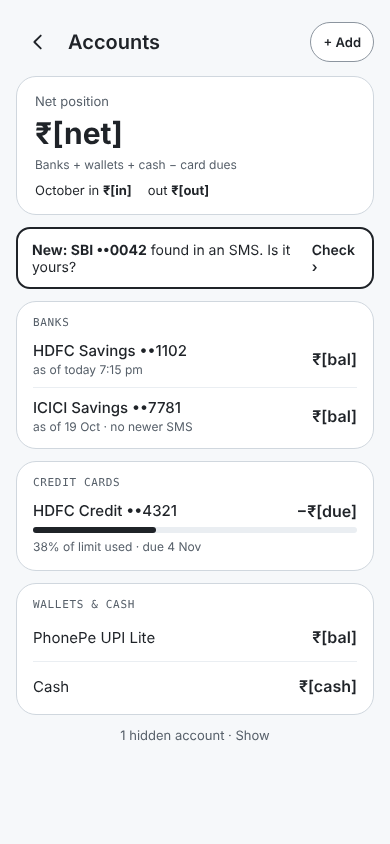
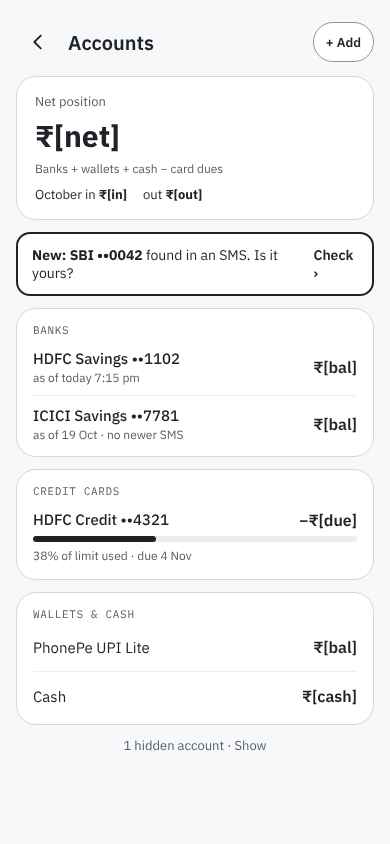
Close navigation gaps in wireframes
- Make dead list rows tappable: payments, people, bills, year months, accounts
- Add Back to every onboarding step; Settings opens lock & reminder setup instead of the unlock screen
- Money: give ignored SMS its own chip; Money-SMS gets an All chip back
- Link + Person, payment category and backlog Answer buttons
- Document context-dependent back/save rules; regenerate Goes to column from the HTML

Claude-Session: https://claude.ai/code/session_01U2qtjUrRfDaXvxT2nZTugL

diff --git a/expense-tracker/wireframes/v2/V2-Money.html b/expense-tracker/wireframes/v2/V2-Money.html
@@ -34,15 +34,16 @@ a{color:#0B57D0}a:hover{color:#08408F}
     <div style="display: flex; gap: 8px; overflow: hidden" aria-label="Accounts">
       <button type="button" aria-pressed="true" style="min-height: 48px; padding: 0 14px; border-radius: 12px; border: 2px solid #1F2328; background: #FFFFFF; font: inherit; font-size: 13px; font-weight: 600; color: #1F2328; flex-shrink: 0; display: flex; flex-direction: column; align-items: flex-start; justify-content: center"><span>You have</span><span style="font-size: 12px; font-weight: 400; color: #57606A">₹[have] · all</span></button>
       <a href="V2-Account.html" style="min-height: 48px; padding: 4px 12px; border-radius: 12px; border: 1px solid #8C959F; box-sizing: border-box; display: flex; flex-direction: column; justify-content: center; color: #1F2328; text-decoration: none; flex-shrink: 0"><span style="font-size: 13px; font-weight: 600">HDFC ••1102</span><span style="font-size: 12px; color: #57606A">₹[bal]</span></a>
-      <div style="min-height: 48px; padding: 4px 12px; border-radius: 12px; border: 1px solid #8C959F; box-sizing: border-box; display: flex; flex-direction: column; justify-content: center; flex-shrink: 0"><span style="font-size: 13px; font-weight: 600">HDFC Card ••4321</span><span style="font-size: 12px; color: #57606A">due ₹[x]</span></div>
-      <div style="min-height: 48px; padding: 4px 12px; border-radius: 12px; border: 1px solid #8C959F; box-sizing: border-box; display: flex; flex-direction: column; justify-content: center; flex-shrink: 0"><span style="font-size: 13px; font-weight: 600">Cash</span><span style="font-size: 12px; color: #57606A">₹[x]</span></div>
+      <a href="V2-Account.html" style="min-height: 48px; padding: 4px 12px; border-radius: 12px; border: 1px solid #8C959F; box-sizing: border-box; display: flex; flex-direction: column; justify-content: center; flex-shrink: 0; color: #1F2328; text-decoration: none"><span style="font-size: 13px; font-weight: 600">HDFC Card ••4321</span><span style="font-size: 12px; color: #57606A">due ₹[x]</span></a>
+      <a href="V2-Cash-Check.html" style="min-height: 48px; padding: 4px 12px; border-radius: 12px; border: 1px solid #8C959F; box-sizing: border-box; display: flex; flex-direction: column; justify-content: center; flex-shrink: 0; color: #1F2328; text-decoration: none"><span style="font-size: 13px; font-weight: 600">Cash</span><span style="font-size: 12px; color: #57606A">₹[x]</span></a>
     </div>
     <div role="tablist" aria-label="Payment type" style="display: flex; gap: 8px; overflow: hidden">
       <button type="button" role="tab" aria-selected="true" style="min-height: 48px; padding: 0 16px; border-radius: 24px; border: none; background: #1F2328; color: #FFFFFF; font: inherit; font-size: 14px; font-weight: 600; flex-shrink: 0">All</button>
       <button type="button" role="tab" aria-selected="false" style="min-height: 48px; padding: 0 16px; border-radius: 24px; border: 1px solid #8C959F; background: #FFFFFF; font: inherit; font-size: 14px; color: #1F2328; flex-shrink: 0">Spent</button>
       <a href="V2-Money-In.html" role="tab" aria-selected="false" style="min-height: 48px; padding: 0 16px; border-radius: 24px; border: 1px solid #8C959F; box-sizing: border-box; font-size: 14px; color: #1F2328; display: flex; align-items: center; text-decoration: none; flex-shrink: 0">Received</a>
       <button type="button" role="tab" aria-selected="false" style="min-height: 48px; padding: 0 16px; border-radius: 24px; border: 1px solid #8C959F; background: #FFFFFF; font: inherit; font-size: 14px; color: #1F2328; flex-shrink: 0">Refunds</button>
-      <a href="V2-Money-SMS.html" role="tab" aria-selected="false" style="min-height: 48px; padding: 0 16px; border-radius: 24px; border: 1px solid #8C959F; box-sizing: border-box; font-size: 14px; color: #1F2328; display: flex; align-items: center; text-decoration: none; flex-shrink: 0">Between my accounts</a>
+      <button type="button" role="tab" aria-selected="false" style="min-height: 48px; padding: 0 16px; border-radius: 24px; border: 1px solid #8C959F; background: #FFFFFF; font: inherit; font-size: 14px; color: #1F2328; flex-shrink: 0">Between my accounts</button>
+      <a href="V2-Money-SMS.html" role="tab" aria-selected="false" style="min-height: 48px; padding: 0 16px; border-radius: 24px; border: 1px solid #8C959F; box-sizing: border-box; font-size: 14px; color: #1F2328; display: flex; align-items: center; text-decoration: none; flex-shrink: 0">SMS not used</a>
     </div>
     <div style="display: flex; gap: 8px; align-items: center">
       <div role="radiogroup" aria-label="Amounts shown" style="display: flex; background: #EAEEF2; border-radius: 12px; padding: 3px; gap: 3px">
@@ -61,16 +62,16 @@ a{color:#0B57D0}a:hover{color:#08408F}
       <span style="flex-grow: 1; display: flex; flex-direction: column; gap: 2px"><span style="font-size: 15px; font-weight: 500">Blue Tokai Coffee</span><span style="font-size: 12px; color: #57606A">Spent · split · HDFC Card</span></span>
       <span style="display: flex; flex-direction: column; align-items: flex-end"><strong style="font-size: 15px">−₹280</strong><span style="font-size: 12px; color: #57606A">of ₹840</span></span>
     </a>
-    <div style="display: flex; align-items: center; gap: 12px; min-height: 60px; border-bottom: 1px solid #EAEEF2">
+    <a href="V2-Txn-Sheet.html" style="display: flex; align-items: center; gap: 12px; min-height: 60px; border-bottom: 1px solid #EAEEF2; color: #1F2328; text-decoration: none">
       <span style="width: 36px; height: 36px; border-radius: 18px; background: #EAEEF2; display: flex; align-items: center; justify-content: center; font-size: 16px; flex-shrink: 0" aria-hidden="true">↓</span>
       <span style="flex-grow: 1; display: flex; flex-direction: column; gap: 2px"><span style="font-size: 15px; font-weight: 500">Rent · Flat 2B tenant</span><span style="font-size: 12px; color: #57606A">Received · rent collected · HDFC</span></span>
       <strong style="font-size: 15px">+₹[rent]</strong>
-    </div>
-    <div style="display: flex; align-items: center; gap: 12px; min-height: 60px; border-bottom: 1px solid #EAEEF2">
+    </a>
+    <a href="V2-Txn-Sheet.html" style="display: flex; align-items: center; gap: 12px; min-height: 60px; border-bottom: 1px solid #EAEEF2; color: #1F2328; text-decoration: none">
       <span style="width: 36px; height: 36px; border-radius: 18px; background: #EAEEF2; display: flex; align-items: center; justify-content: center; font-size: 16px; flex-shrink: 0" aria-hidden="true">⇄</span>
       <span style="flex-grow: 1; display: flex; flex-direction: column; gap: 2px"><span style="font-size: 15px; font-weight: 500">ATM withdrawal</span><span style="font-size: 12px; color: #57606A">Between my accounts · to Cash</span></span>
       <span style="font-size: 15px; color: #424A53">₹2,000</span>
-    </div>
+    </a>
   </div>
 
   <nav aria-label="Main" style="border-top: 1px solid #D0D7DE; display: grid; grid-template-columns: repeat(5, minmax(0, 1fr)); min-height: 72px; background: #FFFFFF; flex-shrink: 0">

diff --git a/expense-tracker/wireframes/v2/V2-Bills.html b/expense-tracker/wireframes/v2/V2-Bills.html
@@ -36,20 +36,20 @@ a{color:#0B57D0}a:hover{color:#08408F}
         <span style="flex-grow: 1; display: flex; flex-direction: column; gap: 2px"><span style="font-size: 15px; font-weight: 600">Electricity</span><span style="font-size: 12px; color: #424A53">Usually around the 10th · ~₹[x]</span></span>
         <button type="button" style="min-height: 44px; padding: 0 12px; border-radius: 22px; border: 2px solid #7A3A06; background: #FFFFFF; font: inherit; font-size: 13px; font-weight: 600; color: #7A3A06">Not paid · Mark</button>
       </div>
-      <div style="display: flex; align-items: center; gap: 10px; min-height: 56px; border-top: 1px solid #EAEEF2">
+      <a href="V2-Bill-Add.html" style="display: flex; align-items: center; gap: 10px; min-height: 56px; border-top: 1px solid #EAEEF2; color: #1F2328; text-decoration: none">
         <span style="flex-grow: 1; font-size: 15px">Wi-Fi</span><span style="font-size: 13px; font-weight: 600">✓ Paid 4 Oct</span>
-      </div>
-      <div style="display: flex; align-items: center; gap: 10px; min-height: 56px; border-top: 1px solid #EAEEF2">
+      </a>
+      <a href="V2-Bill-Add.html" style="display: flex; align-items: center; gap: 10px; min-height: 56px; border-top: 1px solid #EAEEF2; color: #1F2328; text-decoration: none">
         <span style="flex-grow: 1; display: flex; flex-direction: column; gap: 2px"><span style="font-size: 15px">House help</span><span style="font-size: 12px; color: #424A53">Cash</span></span><span style="font-size: 13px; font-weight: 600">✓ Paid 2 Oct</span>
-      </div>
+      </a>
     </div>
 
     <div style="background: #FFFFFF; border: 1px solid #D0D7DE; border-radius: 16px; padding: 4px 14px; display: flex; flex-direction: column">
       <div style="display: flex; justify-content: space-between; align-items: center; min-height: 48px"><strong style="font-size: 15px">I collect · 1 of 2 received</strong><span style="font-size: 13px; color: #424A53">₹[x] of ₹[x]</span></div>
-      <div style="display: flex; align-items: center; gap: 10px; min-height: 64px; border-top: 1px solid #EAEEF2">
+      <a href="V2-Rent-Collect.html" style="display: flex; align-items: center; gap: 10px; min-height: 64px; border-top: 1px solid #EAEEF2; color: #1F2328; text-decoration: none">
         <span style="flex-grow: 1; display: flex; flex-direction: column; gap: 2px"><span style="font-size: 15px; font-weight: 600">Flat 2B · Neha</span><span style="font-size: 12px; color: #424A53">Matched from their UPI · 3 Oct</span></span>
         <span style="font-size: 13px; font-weight: 600">✓ Received</span>
-      </div>
+      </a>
       <a href="V2-Rent-Collect.html" style="display: flex; align-items: center; gap: 10px; min-height: 64px; border-top: 1px solid #EAEEF2; color: #1F2328; text-decoration: none">
         <span style="flex-grow: 1; display: flex; flex-direction: column; gap: 2px"><span style="font-size: 15px; font-weight: 600">Flat 3A · Vikram</span><span style="font-size: 12px; color: #7A3A06; font-weight: 600">₹[x] pending · due 5 Oct</span></span>
         <span style="font-size: 13px; font-weight: 600; color: #0B57D0">Open ›</span>

diff --git a/expense-tracker/wireframes/v2/V2-People.html b/expense-tracker/wireframes/v2/V2-People.html
@@ -46,21 +46,21 @@ a{color:#0B57D0}a:hover{color:#08408F}
         <span style="flex-grow: 1; display: flex; flex-direction: column; gap: 2px"><span style="font-size: 15px; font-weight: 500">Sana</span><span style="font-size: 12px; color: #424A53">Flatmate</span></span>
         <span style="display: flex; flex-direction: column; align-items: flex-end"><strong style="font-size: 15px">₹[x]</strong><span style="font-size: 12px; color: #424A53">owes you</span></span>
       </a>
-      <div style="display: flex; align-items: center; gap: 12px; min-height: 60px; border-bottom: 1px solid #EAEEF2">
+      <a href="V2-Rent-Collect.html" style="display: flex; align-items: center; gap: 12px; min-height: 60px; border-bottom: 1px solid #EAEEF2; color: #1F2328; text-decoration: none">
         <span aria-hidden="true" style="width: 40px; height: 40px; border-radius: 20px; background: #EAEEF2; display: flex; align-items: center; justify-content: center; font-weight: 600">V</span>
         <span style="flex-grow: 1; display: flex; flex-direction: column; gap: 2px"><span style="font-size: 15px; font-weight: 500">Vikram</span><span style="font-size: 12px; color: #424A53">Tenant · Flat 3A</span></span>
         <span style="display: flex; flex-direction: column; align-items: flex-end"><strong style="font-size: 15px">₹[rent]</strong><span style="font-size: 12px; color: #7A3A06; font-weight: 600">rent due</span></span>
-      </div>
-      <div style="display: flex; align-items: center; gap: 12px; min-height: 60px; border-bottom: 1px solid #EAEEF2">
+      </a>
+      <a href="V2-Person-Sheet.html" style="display: flex; align-items: center; gap: 12px; min-height: 60px; border-bottom: 1px solid #EAEEF2; color: #1F2328; text-decoration: none">
         <span aria-hidden="true" style="width: 40px; height: 40px; border-radius: 20px; background: #EAEEF2; display: flex; align-items: center; justify-content: center; font-weight: 600">R</span>
         <span style="flex-grow: 1; display: flex; flex-direction: column; gap: 2px"><span style="font-size: 15px; font-weight: 500">Rahul</span><span style="font-size: 12px; color: #424A53">Friend</span></span>
         <span style="display: flex; flex-direction: column; align-items: flex-end"><strong style="font-size: 15px">₹110</strong><span style="font-size: 12px; color: #424A53">you owe</span></span>
-      </div>
-      <div style="display: flex; align-items: center; gap: 12px; min-height: 60px">
+      </a>
+      <a href="V2-Person-Sheet.html" style="display: flex; align-items: center; gap: 12px; min-height: 60px; color: #1F2328; text-decoration: none">
         <span aria-hidden="true" style="width: 40px; height: 40px; border-radius: 20px; background: #EAEEF2; display: flex; align-items: center; justify-content: center; font-weight: 600">A</span>
         <span style="flex-grow: 1; display: flex; flex-direction: column; gap: 2px"><span style="font-size: 15px; font-weight: 500">Aman</span><span style="font-size: 12px; color: #424A53">Friend</span></span>
         <span style="font-size: 13px; color: #424A53">settled</span>
-      </div>
+      </a>
     </div>
   </div>
 

diff --git a/expense-tracker/wireframes/v2/V2-Year.html b/expense-tracker/wireframes/v2/V2-Year.html
@@ -49,9 +49,9 @@ a{color:#0B57D0}a:hover{color:#08408F}
     <div style="display: flex; flex-direction: column">
       <div style="display: grid; grid-template-columns: 1.2fr 1fr 1fr 1fr; gap: 4px; padding: 6px 0; font-size: 12px; font-weight: 600; color: #57606A"><span>Month</span><span style="text-align: right">In</span><span style="text-align: right">Out</span><span style="text-align: right">Saved</span></div>
       <a href="V2-Month.html" style="display: grid; grid-template-columns: 1.2fr 1fr 1fr 1fr; gap: 4px; min-height: 48px; align-items: center; border-top: 1px solid #EAEEF2; font-size: 14px; color: #1F2328; text-decoration: none"><strong>Oct</strong><span style="text-align: right">₹[x]</span><span style="text-align: right">₹[x]</span><strong style="text-align: right">₹[x]</strong></a>
-      <div style="display: grid; grid-template-columns: 1.2fr 1fr 1fr 1fr; gap: 4px; min-height: 48px; align-items: center; border-top: 1px solid #EAEEF2; font-size: 14px"><span>Sep</span><span style="text-align: right">₹[x]</span><span style="text-align: right">₹[x]</span><span style="text-align: right">₹[x]</span></div>
-      <div style="display: grid; grid-template-columns: 1.2fr 1fr 1fr 1fr; gap: 4px; min-height: 48px; align-items: center; border-top: 1px solid #EAEEF2; font-size: 14px"><span>Aug</span><span style="text-align: right">₹[x]</span><span style="text-align: right">₹[x]</span><span style="text-align: right">₹[x]</span></div>
-      <div style="display: grid; grid-template-columns: 1.2fr 1fr 1fr 1fr; gap: 4px; min-height: 48px; align-items: center; border-top: 1px solid #EAEEF2; font-size: 14px"><span>Jul</span><span style="text-align: right">₹[x]</span><span style="text-align: right">₹[x]</span><span style="text-align: right">₹[x]</span></div>
+      <a href="V2-Month.html" style="display: grid; grid-template-columns: 1.2fr 1fr 1fr 1fr; gap: 4px; min-height: 48px; align-items: center; border-top: 1px solid #EAEEF2; font-size: 14px; color: #1F2328; text-decoration: none"><span>Sep</span><span style="text-align: right">₹[x]</span><span style="text-align: right">₹[x]</span><span style="text-align: right">₹[x]</span></a>
+      <a href="V2-Month.html" style="display: grid; grid-template-columns: 1.2fr 1fr 1fr 1fr; gap: 4px; min-height: 48px; align-items: center; border-top: 1px solid #EAEEF2; font-size: 14px; color: #1F2328; text-decoration: none"><span>Aug</span><span style="text-align: right">₹[x]</span><span style="text-align: right">₹[x]</span><span style="text-align: right">₹[x]</span></a>
+      <a href="V2-Month.html" style="display: grid; grid-template-columns: 1.2fr 1fr 1fr 1fr; gap: 4px; min-height: 48px; align-items: center; border-top: 1px solid #EAEEF2; font-size: 14px; color: #1F2328; text-decoration: none"><span>Jul</span><span style="text-align: right">₹[x]</span><span style="text-align: right">₹[x]</span><span style="text-align: right">₹[x]</span></a>
     </div>
     <span style="font-size: 12px; color: #424A53">Export: CSV statement of any month or the whole year.</span>
   </div>

diff --git a/expense-tracker/wireframes/v2/V2-Settings.html b/expense-tracker/wireframes/v2/V2-Settings.html
@@ -26,7 +26,7 @@ a{color:#0B57D0}a:hover{color:#08408F}
 
     <div style="background: #FFFFFF; border: 1px solid #D0D7DE; border-radius: 16px; padding: 0 14px">
       <div style="padding: 10px 0 2px; font-size: 12px; font-weight: 600; color: #57606A">DAILY</div>
-      <div style="display: flex; justify-content: space-between; align-items: center; min-height: 48px; border-bottom: 1px solid #EAEEF2; font-size: 15px"><span>Nightly reminder</span><span style="color: #424A53">9:30 pm ›</span></div>
+      <a href="../reused-v1/Onb-Review-Lock.html" style="display: flex; justify-content: space-between; align-items: center; min-height: 48px; border-bottom: 1px solid #EAEEF2; font-size: 15px; color: #1F2328; text-decoration: none"><span>Nightly reminder</span><span style="color: #424A53">9:30 pm ›</span></a>
       <a href="V2-Alerts.html" style="display: flex; justify-content: space-between; align-items: center; min-height: 48px; font-size: 15px; color: #1F2328; text-decoration: none"><span>Which alerts you get</span><span style="color: #424A53">›</span></a>
     </div>
 
@@ -40,7 +40,7 @@ a{color:#0B57D0}a:hover{color:#08408F}
 
     <div style="background: #FFFFFF; border: 1px solid #D0D7DE; border-radius: 16px; padding: 0 14px">
       <div style="padding: 10px 0 2px; font-size: 12px; font-weight: 600; color: #57606A">PRIVACY &amp; DATA</div>
-      <a href="../reused-v1/Lock.html" style="display: flex; justify-content: space-between; align-items: center; min-height: 48px; border-bottom: 1px solid #EAEEF2; font-size: 15px; color: #1F2328; text-decoration: none"><span>App lock</span><span style="color: #424A53">Fingerprint + PIN ›</span></a>
+      <a href="../reused-v1/Onb-Review-Lock.html" style="display: flex; justify-content: space-between; align-items: center; min-height: 48px; border-bottom: 1px solid #EAEEF2; font-size: 15px; color: #1F2328; text-decoration: none"><span>App lock</span><span style="color: #424A53">Fingerprint + PIN ›</span></a>
       <label style="display: flex; justify-content: space-between; align-items: center; min-height: 48px; border-bottom: 1px solid #EAEEF2; font-size: 15px"><span>Hide amounts</span><input type="checkbox" role="switch" style="width: 44px; height: 24px"></label>
       <a href="V2-Backup.html" style="display: flex; justify-content: space-between; align-items: center; min-height: 48px; border-bottom: 1px solid #EAEEF2; font-size: 15px; color: #1F2328; text-decoration: none"><span>Backup, restore, export</span><span style="color: #424A53">Last: today ›</span></a>
       <a href="../reused-v1/Downloads.html" style="display: flex; justify-content: space-between; align-items: center; min-height: 48px; font-size: 15px; color: #1F2328; text-decoration: none"><span>AI assistant &amp; offline map</span><span style="color: #424A53">Optional ›</span></a>

diff --git a/expense-tracker/wireframes/reused-v1/Accounts.html b/expense-tracker/wireframes/reused-v1/Accounts.html
@@ -39,9 +39,9 @@ a{color:#0B57D0}a:hover{color:#08408F}
       <a href="Account-Detail.html" style="display: flex; align-items: center; height: 56px; border-bottom: 1px solid #EAEEF2; color: #1F2328; text-decoration: none; gap: 8px">
         <span style="flex-grow: 1; display: flex; flex-direction: column; gap: 2px"><span style="font-size: 15px; font-weight: 500">HDFC Savings ••1102</span><span style="font-size: 12px; color: #57606A">as of today 7:15 pm</span></span><span style="font-weight: 600">₹[bal]</span>
       </a>
-      <div style="display: flex; align-items: center; height: 56px; gap: 8px">
+      <a href="Account-Detail.html" style="display: flex; align-items: center; height: 56px; gap: 8px; color: #1F2328; text-decoration: none">
         <span style="flex-grow: 1; display: flex; flex-direction: column; gap: 2px"><span style="font-size: 15px; font-weight: 500">ICICI Savings ••7781</span><span style="font-size: 12px; color: #57606A">as of 19 Oct · no newer SMS</span></span><span style="font-weight: 600">₹[bal]</span>
-      </div>
+      </a>
     </div>
 
     <div style="background: #FFFFFF; border: 1px solid #D0D7DE; border-radius: 20px; padding: 4px 16px">
@@ -56,7 +56,7 @@ a{color:#0B57D0}a:hover{color:#08408F}
     <div style="background: #FFFFFF; border: 1px solid #D0D7DE; border-radius: 20px; padding: 4px 16px">
       <div style="padding: 10px 0 2px; font-family: 'IBM Plex Mono', monospace; font-size: 11px; color: #57606A; letter-spacing: 0.06em">WALLETS &amp; CASH</div>
       <div style="display: flex; align-items: center; height: 48px; border-bottom: 1px solid #EAEEF2"><span style="flex-grow: 1; font-size: 15px">PhonePe UPI Lite</span><span style="font-weight: 600">₹[bal]</span></div>
-      <div style="display: flex; align-items: center; height: 48px"><span style="flex-grow: 1; font-size: 15px">Cash</span><span style="font-weight: 600">₹[cash]</span></div>
+      <a href="../v2/V2-Cash-Check.html" style="display: flex; align-items: center; height: 48px; color: #1F2328; text-decoration: none"><span style="flex-grow: 1; font-size: 15px">Cash</span><span style="font-weight: 600">₹[cash]</span></a>
     </div>
     <span style="font-size: 13px; color: #57606A; text-align: center">1 hidden account · Show</span>
   </div>

diff --git a/expense-tracker/wireframes/v2/V2-Money-In.html b/expense-tracker/wireframes/v2/V2-Money-In.html
@@ -43,18 +43,18 @@ a{color:#0B57D0}a:hover{color:#08408F}
     </div>
 
     <div style="display: flex; flex-direction: column">
-      <div style="display: flex; align-items: center; gap: 12px; min-height: 60px; border-bottom: 1px solid #EAEEF2">
+      <a href="V2-Txn-Sheet.html" style="display: flex; align-items: center; gap: 12px; min-height: 60px; border-bottom: 1px solid #EAEEF2; color: #1F2328; text-decoration: none">
         <span style="flex-grow: 1; display: flex; flex-direction: column; gap: 2px"><span style="font-size: 15px; font-weight: 500">Rent · Flat 2B tenant</span><span style="font-size: 12px; color: #57606A">Income · rent collected · 3 Oct</span></span>
         <strong style="font-size: 15px">+₹[x]</strong>
-      </div>
-      <div style="display: flex; align-items: center; gap: 12px; min-height: 60px; border-bottom: 1px solid #EAEEF2">
+      </a>
+      <a href="V2-Txn-Sheet.html" style="display: flex; align-items: center; gap: 12px; min-height: 60px; border-bottom: 1px solid #EAEEF2; color: #1F2328; text-decoration: none">
         <span style="flex-grow: 1; display: flex; flex-direction: column; gap: 2px"><span style="font-size: 15px; font-weight: 500">Aman</span><span style="font-size: 12px; color: #57606A">Paid you back · settles ₹290 · 23 Oct</span></span>
         <strong style="font-size: 15px">+₹290</strong>
-      </div>
-      <div style="display: flex; align-items: center; gap: 12px; min-height: 60px; border-bottom: 1px solid #EAEEF2">
+      </a>
+      <a href="V2-Txn-Sheet.html" style="display: flex; align-items: center; gap: 12px; min-height: 60px; border-bottom: 1px solid #EAEEF2; color: #1F2328; text-decoration: none">
         <span style="flex-grow: 1; display: flex; flex-direction: column; gap: 2px"><span style="font-size: 15px; font-weight: 500">Acme Pvt Ltd</span><span style="font-size: 12px; color: #57606A">Income · salary · 1 Oct</span></span>
         <strong style="font-size: 15px">+₹[x]</strong>
-      </div>
+      </a>
     </div>
     <span style="font-size: 12px; color: #57606A">Wrong type? Open the payment and change it; the app remembers that sender.</span>
   </div>

diff --git a/expense-tracker/wireframes/v2/V2-Onb-Rent.html b/expense-tracker/wireframes/v2/V2-Onb-Rent.html
@@ -15,14 +15,14 @@ a{color:#0B57D0}a:hover{color:#08408F}
 </helmet>
 <div style="width: 390px; height: 844px; box-sizing: border-box; background: #FFFFFF; font-family: 'IBM Plex Sans', system-ui, sans-serif; color: #1F2328; display: flex; flex-direction: column; padding: 32px 24px 24px; gap: 18px; overflow: hidden">
   <div style="display: flex; flex-direction: column; gap: 12px">
-    <div role="progressbar" aria-label="Setup step 5 of 6" aria-valuenow="5" aria-valuemin="1" aria-valuemax="6" style="display: flex; gap: 6px">
+    <div style="display: flex; align-items: center; gap: 8px"><a href="../reused-v1/Onb-Review-Lock.html" aria-label="Back" style="width: 40px; height: 40px; margin: -18px 0 -18px -12px; display: flex; align-items: center; justify-content: center; flex-shrink: 0"><svg width="22" height="22" viewBox="0 0 24 24" fill="none" stroke="#1F2328" stroke-width="2" stroke-linecap="round" stroke-linejoin="round" aria-hidden="true"><path d="M15 5l-7 7 7 7"></path></svg></a><div role="progressbar" aria-label="Setup step 5 of 6" aria-valuenow="5" aria-valuemin="1" aria-valuemax="6" style="flex-grow: 1; display: flex; gap: 6px">
       <div style="flex-grow: 1; height: 4px; border-radius: 2px; background: #1F2328"></div>
       <div style="flex-grow: 1; height: 4px; border-radius: 2px; background: #1F2328"></div>
       <div style="flex-grow: 1; height: 4px; border-radius: 2px; background: #1F2328"></div>
       <div style="flex-grow: 1; height: 4px; border-radius: 2px; background: #1F2328"></div>
       <div style="flex-grow: 1; height: 4px; border-radius: 2px; background: #1F2328"></div>
       <div style="flex-grow: 1; height: 4px; border-radius: 2px; background: #D0D7DE"></div>
-    </div>
+    </div></div>
     <span style="font-size: 13px; color: #424A53">Step 5 of 6 · optional</span>
     <h1 style="margin: 0; font-size: 24px; font-weight: 600">Rent &amp; monthly bills</h1>
     <p style="margin: 0; font-size: 14px; color: #424A53; line-height: 1.5">So Month can show what's paid and what's still pending.</p>

diff --git a/expense-tracker/wireframes/v2/V2-Txn-Sheet.html b/expense-tracker/wireframes/v2/V2-Txn-Sheet.html
@@ -38,7 +38,7 @@ a{color:#0B57D0}a:hover{color:#08408F}
     </div>
 
     <div style="display: flex; flex-direction: column; border-top: 1px solid #EAEEF2">
-      <button type="button" style="min-height: 52px; display: flex; justify-content: space-between; align-items: center; border: none; border-bottom: 1px solid #EAEEF2; background: transparent; font: inherit; font-size: 15px; color: #1F2328; padding: 0"><span style="color: #424A53">Category</span><span>Food &amp; drink ›</span></button>
+      <a href="V2-Category-Sheet.html" style="min-height: 52px; display: flex; justify-content: space-between; align-items: center; border: none; border-bottom: 1px solid #EAEEF2; background: transparent; font: inherit; font-size: 15px; color: #1F2328; padding: 0; box-sizing: border-box; text-decoration: none"><span style="color: #424A53">Category</span><span>Food &amp; drink ›</span></a>
       <a href="V2-Split-Sheet.html" style="min-height: 52px; display: flex; justify-content: space-between; align-items: center; border-bottom: 1px solid #EAEEF2; font-size: 15px; color: #1F2328; text-decoration: none"><span style="color: #424A53">Split</span><span>You, Rahul, Aman · ₹280 each ›</span></a>
       <button type="button" style="min-height: 52px; display: flex; justify-content: space-between; align-items: center; border: none; border-bottom: 1px solid #EAEEF2; background: transparent; font: inherit; font-size: 15px; color: #1F2328; padding: 0"><span style="color: #424A53">Paid from</span><span>HDFC Card ••4321 · UPI ›</span></button>
       <button type="button" style="min-height: 52px; display: flex; justify-content: space-between; align-items: center; border: none; border-bottom: 1px solid #EAEEF2; background: transparent; font: inherit; font-size: 15px; color: #1F2328; padding: 0"><span style="color: #424A53">Place</span><span>Cyber Hub ›</span></button>

diff --git a/expense-tracker/wireframes/reused-v1/Onb-Import.html b/expense-tracker/wireframes/reused-v1/Onb-Import.html
@@ -15,14 +15,14 @@ a{color:#0B57D0}a:hover{color:#08408F}
 </helmet>
 <div style="width: 390px; height: 844px; box-sizing: border-box; background: #FFFFFF; font-family: 'IBM Plex Sans', system-ui, sans-serif; color: #1F2328; display: flex; flex-direction: column; padding: 32px 24px 24px; gap: 20px; overflow: hidden">
   <div style="display: flex; flex-direction: column; gap: 12px">
-    <div style="display: flex; gap: 6px">
+    <div style="display: flex; align-items: center; gap: 8px"><a href="../v2/V2-Onb-Rent.html" aria-label="Back" style="width: 40px; height: 40px; margin: -18px 0 -18px -12px; display: flex; align-items: center; justify-content: center; flex-shrink: 0"><svg width="22" height="22" viewBox="0 0 24 24" fill="none" stroke="#1F2328" stroke-width="2" stroke-linecap="round" stroke-linejoin="round" aria-hidden="true"><path d="M15 5l-7 7 7 7"></path></svg></a><div style="flex-grow: 1; display: flex; gap: 6px">
       <div style="flex-grow: 1; height: 4px; border-radius: 2px; background: #0B57D0"></div>
       <div style="flex-grow: 1; height: 4px; border-radius: 2px; background: #0B57D0"></div>
       <div style="flex-grow: 1; height: 4px; border-radius: 2px; background: #0B57D0"></div>
       <div style="flex-grow: 1; height: 4px; border-radius: 2px; background: #0B57D0"></div>
       <div style="flex-grow: 1; height: 4px; border-radius: 2px; background: #0B57D0"></div>
       <div style="flex-grow: 1; height: 4px; border-radius: 2px; background: #0B57D0"></div>
-    </div>
+    </div></div>
     <div style="font-size: 13px; color: #57606A">Step 6 of 6</div>
     <h1 style="margin: 0; font-size: 24px; font-weight: 600">Bring in past payments?</h1>
     <p style="margin: 0; font-size: 14px; color: #424A53; line-height: 1.5">Reads bank SMS already on this phone. Gives you history and finds your accounts on day one.</p>

diff --git a/expense-tracker/wireframes/reused-v1/Onb-Banks.html b/expense-tracker/wireframes/reused-v1/Onb-Banks.html
@@ -15,14 +15,14 @@ a{color:#0B57D0}a:hover{color:#08408F}
 </helmet>
 <div style="width: 390px; height: 844px; box-sizing: border-box; background: #FFFFFF; font-family: 'IBM Plex Sans', system-ui, sans-serif; color: #1F2328; display: flex; flex-direction: column; padding: 32px 24px 24px; gap: 18px; overflow: hidden">
   <div style="display: flex; flex-direction: column; gap: 12px">
-    <div style="display: flex; gap: 6px">
+    <div style="display: flex; align-items: center; gap: 8px"><a href="Onb-Permissions.html" aria-label="Back" style="width: 40px; height: 40px; margin: -18px 0 -18px -12px; display: flex; align-items: center; justify-content: center; flex-shrink: 0"><svg width="22" height="22" viewBox="0 0 24 24" fill="none" stroke="#1F2328" stroke-width="2" stroke-linecap="round" stroke-linejoin="round" aria-hidden="true"><path d="M15 5l-7 7 7 7"></path></svg></a><div style="flex-grow: 1; display: flex; gap: 6px">
       <div style="flex-grow: 1; height: 4px; border-radius: 2px; background: #0B57D0"></div>
       <div style="flex-grow: 1; height: 4px; border-radius: 2px; background: #0B57D0"></div>
       <div style="flex-grow: 1; height: 4px; border-radius: 2px; background: #D0D7DE"></div>
       <div style="flex-grow: 1; height: 4px; border-radius: 2px; background: #D0D7DE"></div>
       <div style="flex-grow: 1; height: 4px; border-radius: 2px; background: #D0D7DE"></div>
       <div style="flex-grow: 1; height: 4px; border-radius: 2px; background: #D0D7DE"></div>
-    </div>
+    </div></div>
     <div style="font-size: 13px; color: #57606A">Step 2 of 6</div>
     <h1 style="margin: 0; font-size: 24px; font-weight: 600">Your banks and apps</h1>
     <p style="margin: 0; font-size: 14px; color: #424A53; line-height: 1.5">So the app knows which SMS formats to read. We ticked the ones found in your inbox.</p>

diff --git a/expense-tracker/wireframes/reused-v1/Onb-Places.html b/expense-tracker/wireframes/reused-v1/Onb-Places.html
@@ -15,14 +15,14 @@ a{color:#0B57D0}a:hover{color:#08408F}
 </helmet>
 <div style="width: 390px; height: 844px; box-sizing: border-box; background: #FFFFFF; font-family: 'IBM Plex Sans', system-ui, sans-serif; color: #1F2328; display: flex; flex-direction: column; padding: 32px 24px 24px; gap: 18px; overflow: hidden">
   <div style="display: flex; flex-direction: column; gap: 12px">
-    <div style="display: flex; gap: 6px">
+    <div style="display: flex; align-items: center; gap: 8px"><a href="Onb-Banks.html" aria-label="Back" style="width: 40px; height: 40px; margin: -18px 0 -18px -12px; display: flex; align-items: center; justify-content: center; flex-shrink: 0"><svg width="22" height="22" viewBox="0 0 24 24" fill="none" stroke="#1F2328" stroke-width="2" stroke-linecap="round" stroke-linejoin="round" aria-hidden="true"><path d="M15 5l-7 7 7 7"></path></svg></a><div style="flex-grow: 1; display: flex; gap: 6px">
       <div style="flex-grow: 1; height: 4px; border-radius: 2px; background: #0B57D0"></div>
       <div style="flex-grow: 1; height: 4px; border-radius: 2px; background: #0B57D0"></div>
       <div style="flex-grow: 1; height: 4px; border-radius: 2px; background: #0B57D0"></div>
       <div style="flex-grow: 1; height: 4px; border-radius: 2px; background: #D0D7DE"></div>
       <div style="flex-grow: 1; height: 4px; border-radius: 2px; background: #D0D7DE"></div>
       <div style="flex-grow: 1; height: 4px; border-radius: 2px; background: #D0D7DE"></div>
-    </div>
+    </div></div>
     <div style="font-size: 13px; color: #57606A">Step 3 of 6 · optional</div>
     <h1 style="margin: 0; font-size: 24px; font-weight: 600">Save Home and Office</h1>
     <p style="margin: 0; font-size: 14px; color: #424A53; line-height: 1.5">Payments made here show these names instead of a nearby shop.</p>
